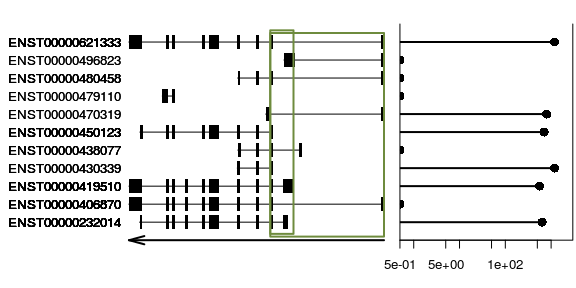
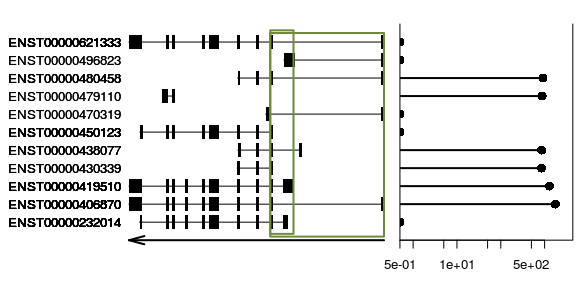
upd vignette and doc

diff --git a/doc/plot-transcripts.md b/doc/plot-transcripts.md
@@ -1,7 +1,7 @@
 Circtools
 ================
 Alexey Uvarovskii
-2017-05-19
+2017-06-21
 
 Introduction
 ------------
@@ -91,12 +91,12 @@ tail(counts)
 ```
 
     ##                 id count
-    ## 6  ENST00000450123   705
-    ## 7  ENST00000470319   800
-    ## 8  ENST00000479110     0
-    ## 9  ENST00000480458     0
+    ## 6  ENST00000450123     0
+    ## 7  ENST00000470319     0
+    ## 8  ENST00000479110   878
+    ## 9  ENST00000480458   910
     ## 10 ENST00000496823     0
-    ## 11 ENST00000621333  1185
+    ## 11 ENST00000621333     0
 
 The workflow entry point
 ------------------------
@@ -153,16 +153,16 @@ exShortesSeq[['3:187734869-187737088']]
     ## GRanges object with 2 ranges and 5 metadata columns:
     ##       seqnames                 ranges strand |         exon_id
     ##          <Rle>              <IRanges>  <Rle> |     <character>
-    ##   [1]        3 [187736090, 187737088]      - | ENSE00001666929
-    ##   [2]        3 [187734869, 187734882]      - | ENSE00002535122
+    ##   [1]        3 [187734869, 187734882]      - | ENSE00002535122
+    ##   [2]        3 [187736090, 187737088]      - | ENSE00001666929
     ##               gene_id                  sjId        side
     ##           <character>           <character> <character>
     ##   [1] ENSG00000113916 3:187734869-187737088        left
     ##   [2] ENSG00000113916 3:187734869-187737088       right
     ##                           seq
     ##                <DNAStringSet>
-    ##   [1] TCTCATTGAC...TGCTCATTTG
-    ##   [2]          AAGCAAGGCATTGG
+    ##   [1]          AAGCAAGGCATTGG
+    ##   [2] TCTCATTGAC...TGCTCATTTG
     ##   -------
     ##   seqinfo: 1 sequence from GRCh38 genome
 
@@ -184,7 +184,7 @@ Design and validate primers
 To get *in silico* optimized primer sequences, one needs simply to invoke `designPrimers` function on the splice junction exons object:
 
 ``` r
-primers <- designPrimers(exSeq = exShortesSeq[1], db = db, bsg = bsg)
+primers <- designPrimers(exSeq = exShortesSeq, db = db, bsg = bsg)
 ```
 
 The result is a list with an item for every splice junction. There are two records: `primers` and `products`. Every item consists of a list of primers for possible circular transcripts: if there several exons, which correspons to the same splice junction, all possible combinations of their pairs will be used for primer design.
@@ -195,13 +195,19 @@ The priducts are
 str(primers$products)
 ```
 
-    ## List of 1
+    ## List of 2
     ##  $ 3:187734869-187737088:'data.frame':   1 obs. of  5 variables:
     ##   ..$ sjId      : chr "3:187734869-187737088"
-    ##   ..$ upExonId  : chr "ENSE00001666929"
-    ##   ..$ downExonId: chr "ENSE00002535122"
-    ##   ..$ circSeq   : chr "TCTCATTGACAGCCCTGCTCCTTGGAGATTGTTTTTGTGGGTAGTCTTGTGTGTGGCATTGGTGGAATGGCTGAATCTAGGAGACGCGGCGTGTCCAGAACTTGCTGGAAA"| __truncated__
+    ##   ..$ upExonId  : chr "ENSE00002535122"
+    ##   ..$ downExonId: chr "ENSE00001666929"
+    ##   ..$ circSeq   : chr "AAGCAAGGCATTGGTCTCATTGACAGCCCTGCTCCTTGGAGATTGTTTTTGTGGGTAGTCTTGTGTGTGGCATTGGTGGAATGGCTGAATCTAGGAGACGCGGCGTGTCCA"| __truncated__
     ##   ..$ seqId     : chr "3:187734869-187737088"
+    ##  $ 3:187734869-187745727:'data.frame':   1 obs. of  5 variables:
+    ##   ..$ sjId      : chr "3:187734869-187745727"
+    ##   ..$ upExonId  : chr "ENSE00002535122"
+    ##   ..$ downExonId: chr "ENSE00001564372"
+    ##   ..$ circSeq   : chr "AAGCAAGGCATTGGATACCATCGTCTTGGGCCCGGGGAGGGAGAGCCACCTTCAGGCCCCTCGAGCCTCGAACCGGAACCTCCAAATCCGAGACGCTCTGCTTATGAGGAC"| __truncated__
+    ##   ..$ seqId     : chr "3:187734869-187745727"
 
 and the primers
 
@@ -211,44 +217,69 @@ primers$primers$`3:187734869-187737088`
 
     ## GRangesList object of length 1:
     ## $3:187734869-187737088 
-    ## GRanges object with 3 ranges and 4 metadata columns:
+    ## GRanges object with 3 ranges and 6 metadata columns:
     ##       seqnames                 ranges strand |                    seq
     ##          <Rle>              <IRanges>  <Rle> |            <character>
-    ##   [1]        3 [187736090, 187736102]      - | GAGTGCTCATTTGAAGCAAGGC
-    ##   [2]        3 [187736998, 187737018]      - |  GCCATTCCACCAATGCCACAC
-    ##   [3]        3 [187734874, 187734882]      - | GAGTGCTCATTTGAAGCAAGGC
-    ##              type efficiency                 seqId
-    ##       <character>  <numeric>           <character>
-    ##   [1]     forward  0.9261266 3:187734869-187737088
-    ##   [2]     reverse  0.9692953 3:187734869-187737088
-    ##   [3]     forward  0.9261266 3:187734869-187737088
+    ##   [1]        3 [187734869, 187734876]      - | GGCATTGGTCTCATTGACAGCC
+    ##   [2]        3 [187737075, 187737088]      - | GGCATTGGTCTCATTGACAGCC
+    ##   [3]        3 [187736974, 187736990]      - |      TCTGGACACGCCGCGTC
+    ##              type efficiency                 seqId          upExon
+    ##       <character>  <numeric>           <character>     <character>
+    ##   [1]     forward  0.9434878 3:187734869-187737088 ENSE00002535122
+    ##   [2]     forward  0.9434878 3:187734869-187737088 ENSE00002535122
+    ##   [3]     reverse  0.9853872 3:187734869-187737088 ENSE00002535122
+    ##              downExon
+    ##           <character>
+    ##   [1] ENSE00001666929
+    ##   [2] ENSE00001666929
+    ##   [3] ENSE00001666929
     ## 
     ## -------
     ## seqinfo: 1 sequence from an unspecified genome; no seqlengths
 
 ``` r
-plotCirc(circGenes = bcl6EnsId,
+circ <- "3:187734869-187737088"
+plotCirc(sjIds = circ,
+         #circGenes = bcl6EnsId,
          circData = circData,
          counts = counts, 
-         primers = primers$primers$`3:187734869-187737088`, 
+         primers = primers$primers[[circ]],
+         opts = list(normalise = FALSE))
+circ <-"3:187734869-187745727"
+plotCirc(sjIds = circ,
+         #circGenes = bcl6EnsId,
+         circData = circData,
+         counts = counts, 
+         primers = primers$primers[[circ]],
          opts = list(normalise = FALSE))
 ```
 
-![](plot-transcripts_files/figure-markdown_github/unnamed-chunk-16-1.png)
+![](plot-transcripts_files/figure-markdown_github/unnamed-chunk-16-1.png)![](plot-transcripts_files/figure-markdown_github/unnamed-chunk-16-2.png)
 
 ### Filter by counts and easy view
 
 Sometimes it is cleaner to keep only expressed transcripts. One can specify a threshold for read count in `countThres` argument. In addition, by default, all the coordinated used for plotting are transformed for easier interpretation of relative position. It can be turned off in `opts$normalise = FALSE`.
 
 ``` r
-plotCirc(circGenes = bcl6EnsId,
+circ <- "3:187734869-187737088"
+plotCirc(sjIds = circ,
+         #circGenes = bcl6EnsId,
          circData = circData,
-         #counts = counts, 
-         primers = primers$primers$`3:187734869-187737088`,
-         countThres = 1)
+         counts = counts, 
+         primers = primers$primers[[circ]],
+         countThres = 1,
+         opts = list(normalise =TRUE))
+circ <- "3:187734869-187745727"
+plotCirc(sjIds = circ,
+         #circGenes = bcl6EnsId,
+         circData = circData,
+         counts = counts, 
+         primers = primers$primers[[circ]],
+         countThres = 1,
+         opts = list(normalise =TRUE))
 ```
 
-![](plot-transcripts_files/figure-markdown_github/unnamed-chunk-17-1.png)
+![](plot-transcripts_files/figure-markdown_github/unnamed-chunk-17-1.png)![](plot-transcripts_files/figure-markdown_github/unnamed-chunk-17-2.png)
 
 Session
 -------
@@ -306,10 +337,10 @@ sessionInfo()
     ## [11] GenomeInfoDbData_0.99.0       stringr_1.2.0                
     ## [13] zlibbioc_1.22.0               ProtGenerics_1.8.0           
     ## [15] memoise_1.1.0                 evaluate_0.10                
-    ## [17] knitr_1.15.1                  biomaRt_2.32.0               
+    ## [17] knitr_1.16                    biomaRt_2.32.0               
     ## [19] httpuv_1.3.3                  BiocInstaller_1.26.0         
-    ## [21] Rcpp_0.12.10                  xtable_1.8-2                 
-    ## [23] backports_1.0.5               DelayedArray_0.2.2           
+    ## [21] Rcpp_0.12.11                  xtable_1.8-2                 
+    ## [23] backports_1.1.0               DelayedArray_0.2.2           
     ## [25] mime_0.5                      Rsamtools_1.28.0             
     ## [27] AnnotationHub_2.8.1           digest_0.6.12                
     ## [29] stringi_1.1.5                 shiny_1.0.3                  
